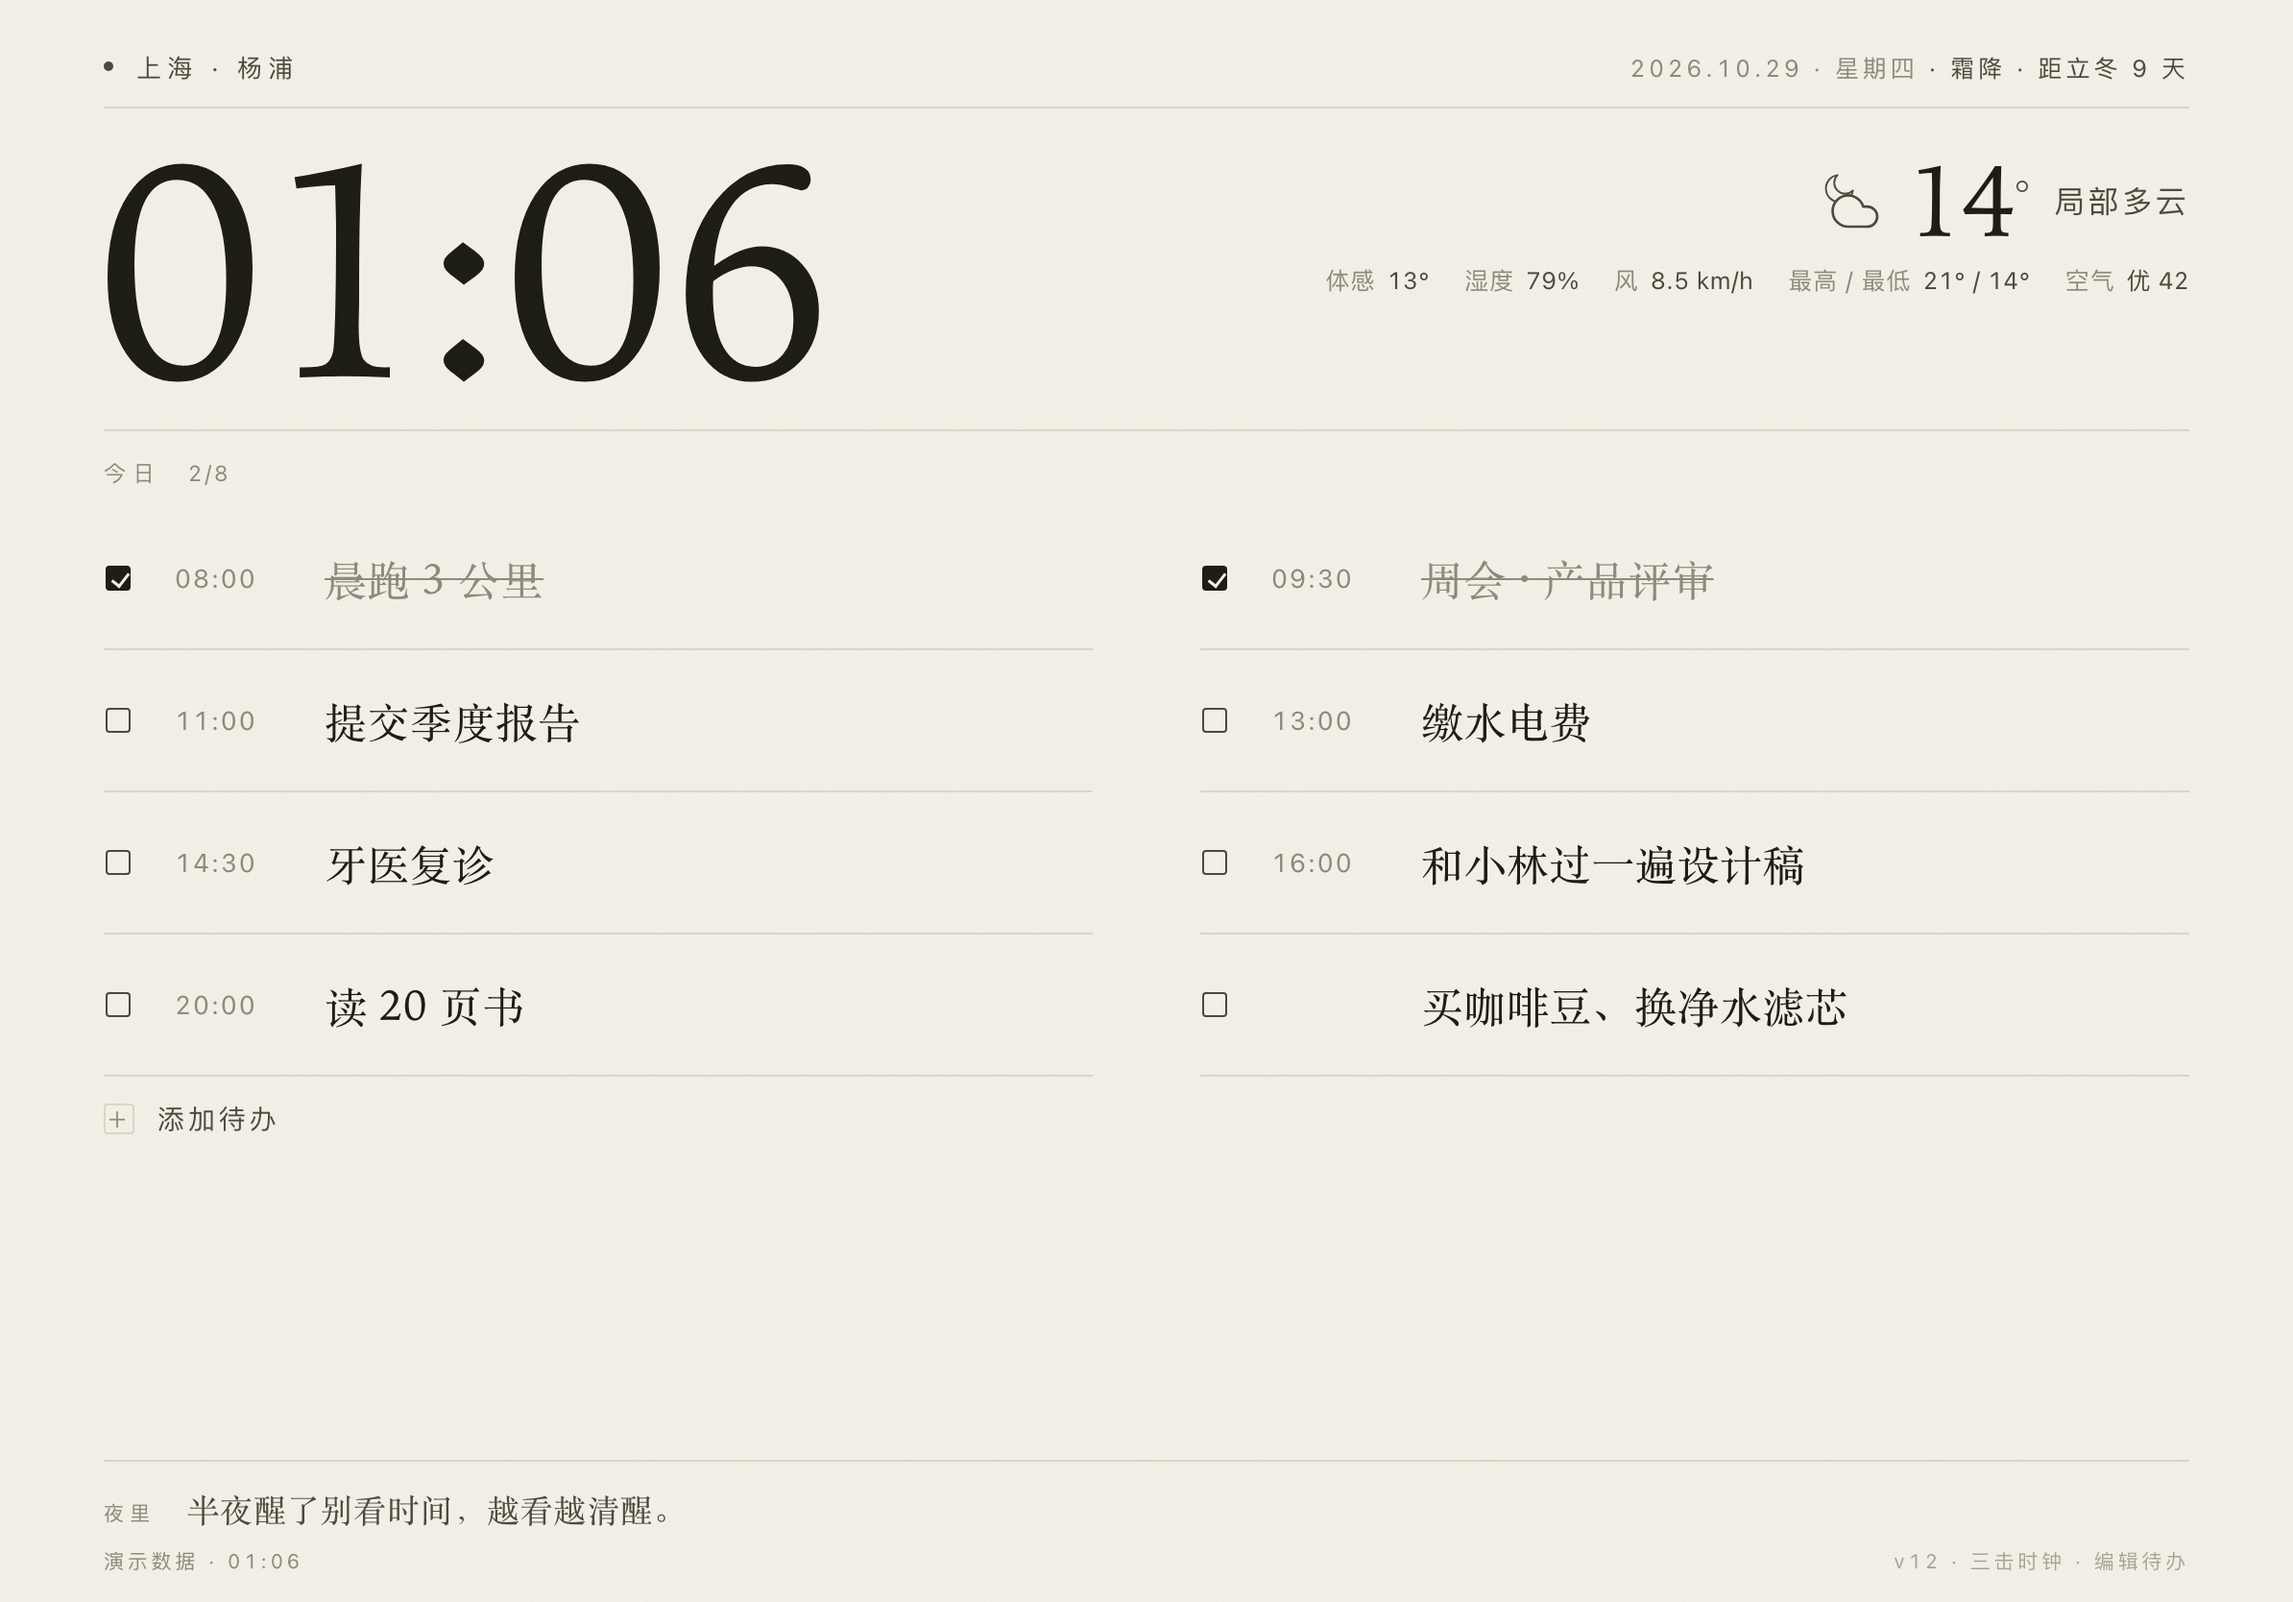
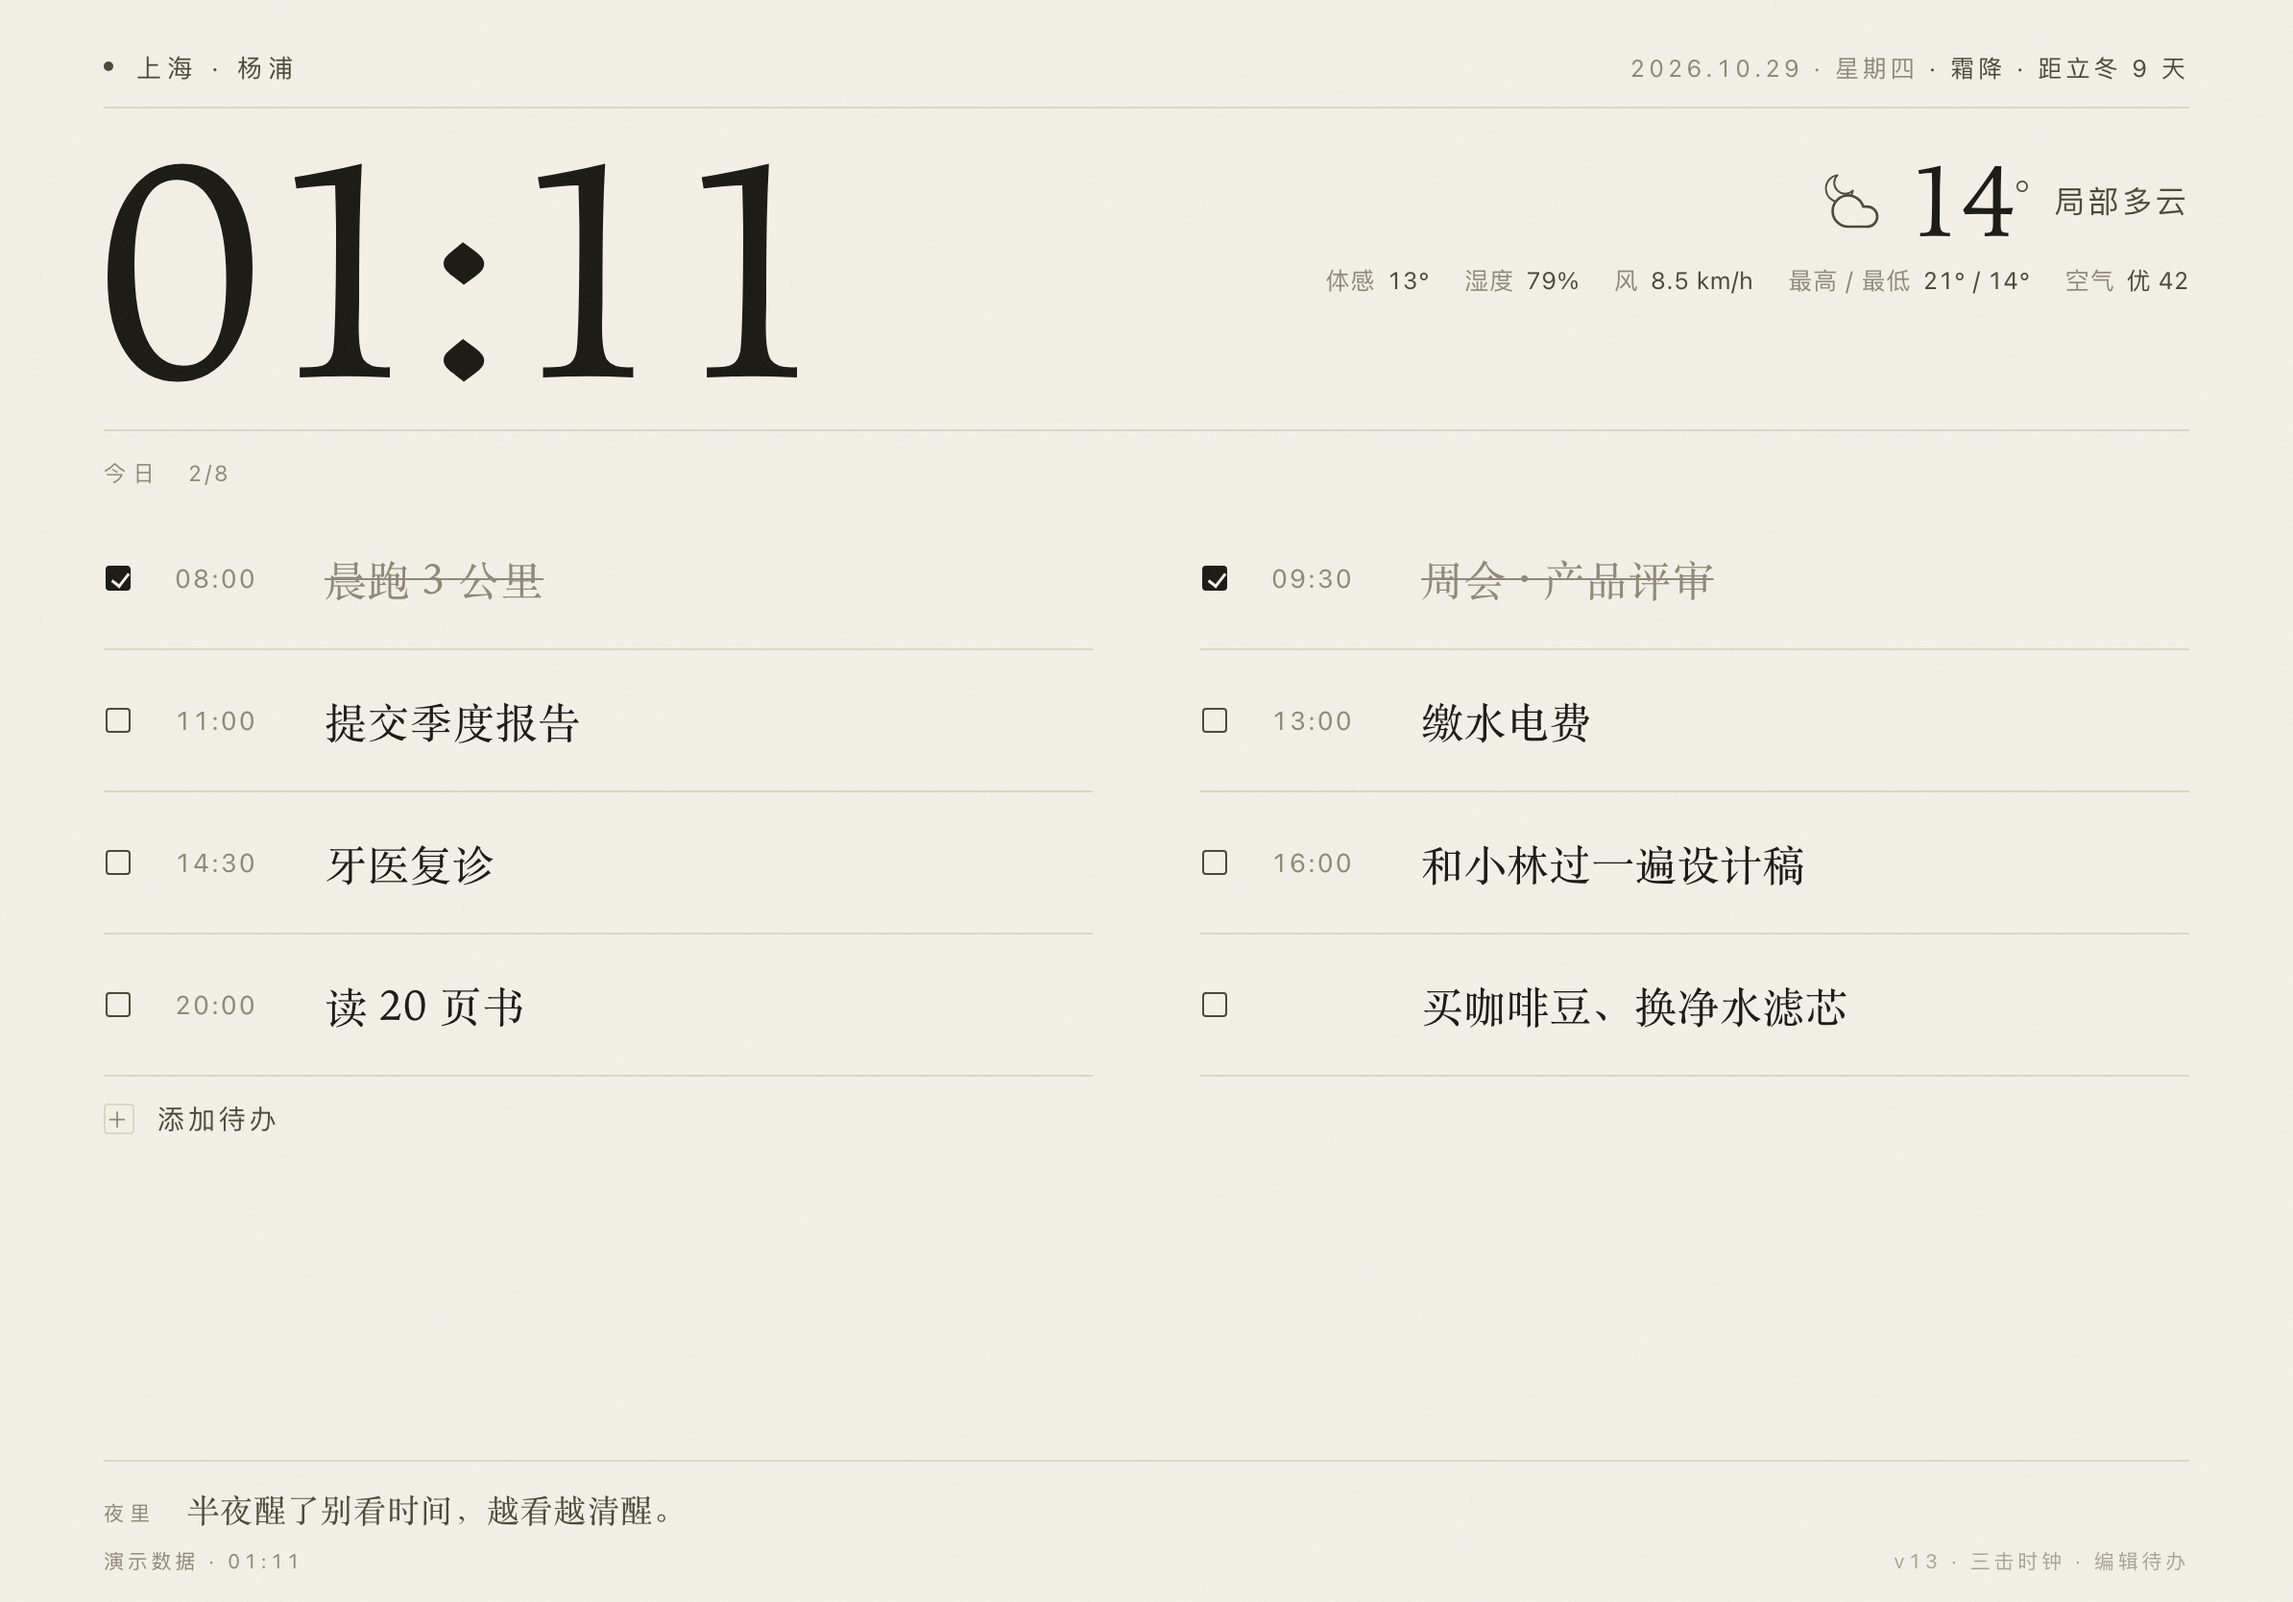
时段文案并入原有 24 条：可归属的分到时段，其余进通用池（v13）

Changed region(s): [[0.2169, 0.0935, 0.3719, 0.2494]]

diff --git a/index.html b/index.html
@@ -544,10 +544,10 @@
 
     // 健康提示：daily 每天换一条 / rotate 按固定间隔轮换
     tips: {
-      rotateMinutes: 30,      // 时段内轮换的粒度（mode: "rotate" 时生效）
+      rotateMinutes: 30,      // 时段内轮换粒度（mode: "rotate" 时生效）
 
       // 第一层：按当天实况，命中第一条就停（顺序即优先级）
-      // 条件：rain / snow / storm / fog，或 temp>32、aqi>=100、hum>85、wind>=28
+      // 条件：rain / snow / storm / fog，或 temp>32、aqi>=100、hum>=85、wind>=28
       conditional: [
         { cond: "storm",     text: "有雷阵雨，尽量别在空旷处停留。" },
         { cond: "snow",      text: "有雪，路面湿滑，出门慢一点。" },
@@ -573,7 +573,7 @@
             "起床后拉伸三分钟，腰会舒服很多。",
             "早上别急着刷手机，先给自己十分钟。",
             "空腹别做太猛的运动，垫一口再出门。",
-            "开窗、喝水、洗脸，三件事做完人就醒了。",
+            "每天同一时间起床，比同一时间睡觉更重要。",
             "早晨记性最好，难的事放这会儿做。"
           ]
         },
@@ -582,11 +582,11 @@
           list: [
             "每坐 45 分钟起身走两分钟，腰会感谢你。",
             "看屏幕 20 分钟，抬头看 6 米外 20 秒。",
+            "久坐时勾一勾脚尖，帮小腿把血送回心脏。",
             "午饭后走十分钟，比趴着睡更解乏。",
+            "午睡 20 分钟足够，超过 40 分钟反而更困。",
             "下午三点后少喝咖啡，夜里会睡得更沉。",
             "说话多的时候，手边放杯水。",
-            "眼睛干涩时多眨眼，比滴眼药水更根本。",
-            "午饭吃七分饱，下午不容易犯困。",
             "站起来接电话，一天能多消耗不少热量。"
           ]
         },
@@ -597,10 +597,10 @@
             "饭后散步十五分钟，血糖会平稳些。",
             "晚上把灯调暖，让身体知道该休息了。",
             "睡前把明天要做的三件事写下来，脑子才能关机。",
-            "睡前一小时把屏幕调暗，或者干脆放下。",
+            "睡前 1 小时把屏幕调暗，或者干脆放下。",
+            "睡前泡脚 10 分钟，入睡会快一些。",
             "晚上少喝一杯酒，睡眠质量会好很多。",
-            "洗澡别太晚，睡前两小时最合适。",
-            "晚饭后别再碰咖啡和浓茶。"
+            "洗澡别太晚，睡前两小时最合适。"
           ]
         },
         {
@@ -610,12 +610,26 @@
             "手机放到够不着的地方。",
             "卧室 18–22 度最好睡。",
             "睡不着就起来看会儿书，别在床上翻。",
-            "睡前泡脚十分钟，入睡会快一些。",
             "半夜醒了别看时间，越看越清醒。",
             "夜里渴了喝两口水就行，别喝太多。",
-            "如果还亮着屏幕，把亮度调到最低。"
+            "如果还亮着屏幕，把亮度调到最低。",
+            "睡前别刷消息，明早再看也不迟。"
           ]
         }
+      ],
+
+      // 第三层：不分时段，任何钟点看到都成立。混进每个时段的轮换里。
+      general: [
+        "每天走 6000 步，比偶尔一次猛练更有用。",
+        "深绿色蔬菜每天一小把，抵得上一堆补剂。",
+        "口渴才喝水已经晚了半拍，桌上放个杯子。",
+        "尽量用鼻子呼吸，张嘴呼吸会让喉咙更干。",
+        "情绪上头时：吸气 4 秒，停 4 秒，呼气 6 秒。",
+        "吃饭时把手机放远一点，胃和脑子都更轻松。",
+        "房间每天通风两次，每次 10 分钟。",
+        "每周两次力量训练，是最划算的抗衰老。",
+        "水果整颗吃，比榨汁保留更多纤维。",
+        "肩颈发酸时做「下巴后收」，每次 10 秒。"
       ]
     },
 
@@ -658,7 +672,7 @@
     ]
   };
 
-  const BUILD = "v12";   // 改版时 +1，页脚可见，用来确认主屏 App 拿到的是哪一版
+  const BUILD = "v13";   // 改版时 +1，页脚可见，用来确认主屏 App 拿到的是哪一版
 
   const params = new URLSearchParams(location.search);
   const DEMO_MODE = params.has("demo");
@@ -1306,16 +1320,17 @@
       text = cond;
       label = "今日提醒";
     } else {
-      // 2. 此刻所在时段
+      // 2. 此刻所在时段（时段专属 + 通用池）
       const slot = currentSlot();
-      const pool = slot.list || [];
+      const pool = (slot.list || []).concat(CONFIG.tips.general || []);
       if (pool.length) {
+        const si = Math.max(0, (CONFIG.tips.timeSlots || []).indexOf(slot));
         let idx;
         if (CONFIG.tips.mode === "rotate") {
-          idx = Math.floor(Date.now() / (CONFIG.tips.rotateMinutes * 60000)) % pool.length;
+          idx = (Math.floor(Date.now() / (CONFIG.tips.rotateMinutes * 60000)) + si * 3) % pool.length;
         } else {
           const p = nowParts();
-          idx = dayOfYear(p.y, p.m, p.d) % pool.length;
+          idx = (dayOfYear(p.y, p.m, p.d) + si * 3) % pool.length;
         }
         text = pool[idx];
         label = slot.name;

diff --git a/README.md b/README.md
@@ -168,7 +168,9 @@ location: { name: "上海 · 徐汇", lat: 31.1884, lon: 121.4336, tz: "Asia/Sha
 | 晚上 | 17:00–22:00 | 晚饭吃七分饱，夜里睡得更沉。 |
 | 夜里 | 22:00–05:00 | 该睡了，明天的事留给明天。 |
 
-页面每分钟比对一次，**跨时段自动换**；同一时段内一天换一条，每个时段 8 条轮完一圈。
+每个时段有 8 条专属文案，另外还有一个 **`tips.general` 通用池**（10 条，任何钟点看都成立，比如「每天走 6000 步」），会混进四个时段的轮换里——所以任意时刻的候选是「8 条时段 + 10 条通用」共 18 条。
+
+页面每分钟比对一次，**跨时段自动换**；同一时段内一天换一条，18 天轮完一圈。
 
 顶部的节气（见上一节）只是背景信息，不参与提醒的选择。
 
